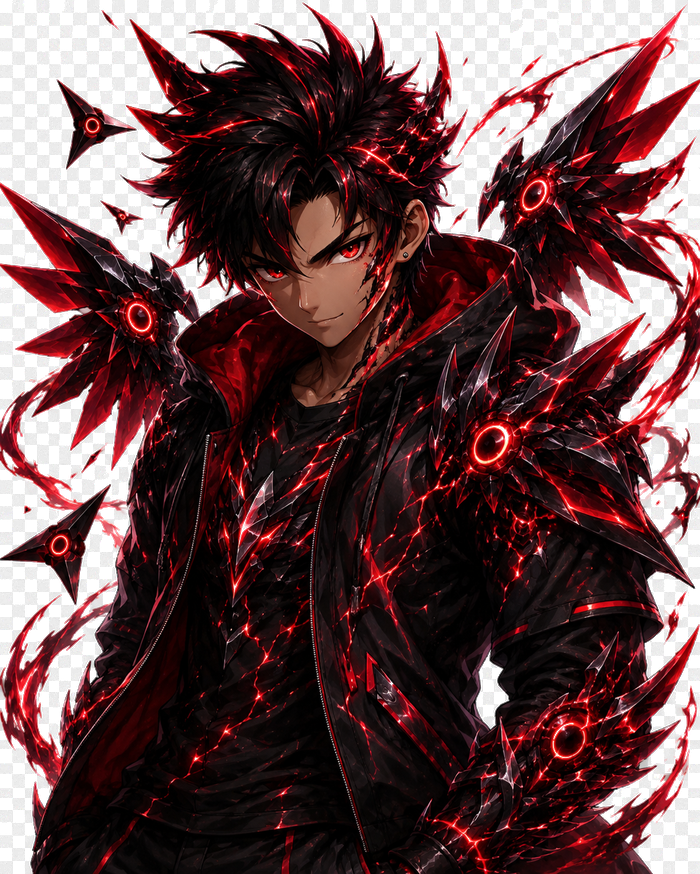
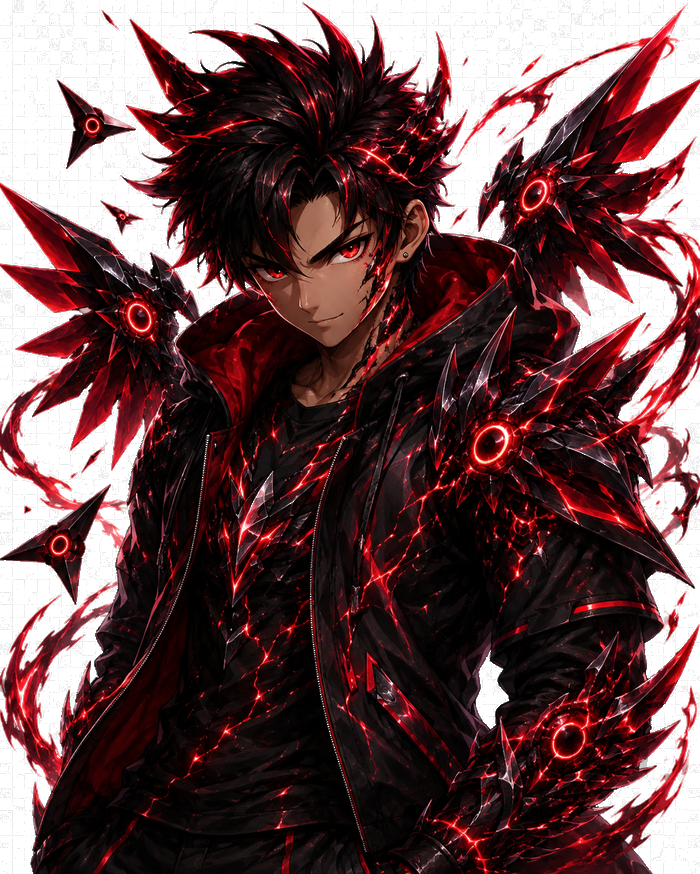
Add files via upload

diff --git a/www/index.html b/www/index.html
@@ -613,6 +613,7 @@ body{
 .program-card-link .title{font-size:15px;font-weight:700;}
 .program-card-link .sub{font-size:12px;color:var(--text-dim);margin-top:2px;}
 .program-card-link .sub2{font-size:11px;font-weight:600;margin-top:3px;}
+.program-card-link .sub3{font-size:11px;font-weight:600;margin-top:4px;color:var(--success);}
 .program-card-link .arrow{margin-left:auto;color:var(--text-faint);flex-shrink:0;}
 .program-card-link.mode-cindy .program-card-icon{color:var(--pull);background:rgba(61,111,224,.14);}
 .program-card-link.mode-cindy .sub2{color:var(--pull);}
@@ -1019,28 +1020,15 @@ textarea.note-input::placeholder{color:var(--text-faint);}
     <div class="home-content">
       <div class="section-label" style="margin-top:14px;">เลือกโหมด</div>
 
-      <div class="program-card-link mode-cindy" onclick="go('cindy')">
-        <div class="program-card-icon">
-          <svg width="19" height="19" viewBox="0 0 24 24" fill="none" stroke="currentColor" stroke-width="2"><circle cx="12" cy="12" r="8.5"/><circle cx="12" cy="12" r="5"/><circle cx="12" cy="12" r="1.6" fill="currentColor" stroke="none"/></svg>
-        </div>
-        <div>
-          <div class="title">Cindy (Classic)<span id="programCindyStartBadge" class="proto-active-tag" style="display:none;">เริ่มตรงนี้</span><span id="programCindyTodayBadge" class="program-today-badge" style="display:none;">วันนี้ตามแผน</span></div>
-          <div class="sub">AMRAP 20 นาที Pull-up · Push-up · Squat</div>
-          <div class="sub2" id="programCindyStat"></div>
-        </div>
-        <div class="arrow">
-          <svg width="16" height="16" viewBox="0 0 24 24" fill="none" stroke="currentColor" stroke-width="2.4"><path d="M9 6l6 6-6 6"/></svg>
-        </div>
-      </div>
-
       <div class="program-card-link mode-custom" onclick="go('customlist')">
         <div class="program-card-icon">
           <svg width="19" height="19" viewBox="0 0 24 24" fill="none" stroke="currentColor" stroke-width="2"><path d="M6.5 6.5l11 11M4 4l3 3M20 20l-3-3M2.5 9.5l3-3 3 3-3 3zM15.5 22.5l3-3 3 3-3 3zM18.5 2.5l3 3-3 3-3-3zM5.5 15.5l3 3-3 3-3-3z"/></svg>
         </div>
         <div>
           <div class="title">Custom Workouts<span id="programCustomTodayBadge" class="program-today-badge" style="display:none;">วันนี้ตามแผน</span></div>
-          <div class="sub">สร้างสูตรของคุณเอง ตั้งตารางประจำสัปดาห์</div>
+          <div class="sub">สร้างสูตรของคุณเอง ตั้งตารางประจำสัปดาห์ — เล่นได้บ่อยเท่าที่ต้องการ</div>
           <div class="sub2" id="programCustomStat"></div>
+          <div class="sub3" id="programCustomNudge" style="display:none;">อยากได้ระบบเล่นประจำ? ไปสร้าง Custom Workout →</div>
         </div>
         <div class="arrow">
           <svg width="16" height="16" viewBox="0 0 24 24" fill="none" stroke="currentColor" stroke-width="2.4"><path d="M9 6l6 6-6 6"/></svg>
@@ -1053,8 +1041,22 @@ textarea.note-input::placeholder{color:var(--text-faint);}
         </div>
         <div>
           <div class="title">Cardio<span id="programCardioTodayBadge" class="program-today-badge" style="display:none;">วันนี้ตามแผน</span></div>
-          <div class="sub">HIIT, Circuit, Tabata พร้อมเล่นทันที</div>
+          <div class="sub">HIIT, Circuit, Tabata พร้อมเล่นทันที — เสริมวันไหนแรงเหลือ</div>
           <div class="sub2" id="programCardioStat"></div>
+        </div>
+        <div class="arrow">
+          <svg width="16" height="16" viewBox="0 0 24 24" fill="none" stroke="currentColor" stroke-width="2.4"><path d="M9 6l6 6-6 6"/></svg>
+        </div>
+      </div>
+
+      <div class="program-card-link mode-cindy" onclick="go('cindy')">
+        <div class="program-card-icon">
+          <svg width="19" height="19" viewBox="0 0 24 24" fill="none" stroke="currentColor" stroke-width="2"><circle cx="12" cy="12" r="8.5"/><circle cx="12" cy="12" r="5"/><circle cx="12" cy="12" r="1.6" fill="currentColor" stroke="none"/></svg>
+        </div>
+        <div>
+          <div class="title">Cindy (Classic)<span id="programCindyStartBadge" class="proto-active-tag" style="display:none;">ลองเล่นเลย (ไม่ต้องตั้งค่า)</span><span id="programCindyTodayBadge" class="program-today-badge" style="display:none;">วันนี้ตามแผน</span></div>
+          <div class="sub">โหมดพิเศษ — หนักกว่า ท้าทายกว่า (AMRAP 20 นาที Pull-up · Push-up · Squat)</div>
+          <div class="sub2" id="programCindyStat"></div>
         </div>
         <div class="arrow">
           <svg width="16" height="16" viewBox="0 0 24 24" fill="none" stroke="currentColor" stroke-width="2.4"><path d="M9 6l6 6-6 6"/></svg>
@@ -1086,7 +1088,7 @@ textarea.note-input::placeholder{color:var(--text-faint);}
       </button>
     </div>
     <div class="home-content">
-      <div class="hero-card" style="margin-top:8px;">
+      <div class="hero-card" style="margin-top:22px;">
         <div id="activeProtocolName" style="font-size:11px;letter-spacing:2px;color:var(--text-faint);text-transform:uppercase;margin-bottom:2px;">Cindy (Classic)</div>
         <div id="heroEyebrow" class="hero-eyebrow">20 MIN AMRAP</div>
         <div id="heroTitle" class="hero-title">5 PULL-UP · 10 PUSH-UP · 15 SQUAT</div>

diff --git a/www/app.js b/www/app.js
@@ -587,20 +587,31 @@ function renderBossCard() {
 }
 
 /* ---- elemental damage breakdown ----
- * Same weekly damage total as above, just split by move so it reads like
- * three damage types instead of one lump sum. Custom Workout volume can't
- * be split by move (arbitrary exercises), so it's shown as a 4th "OTHER"
- * bucket only when it's actually nonzero this week. */
+ * Same weekly damage total as above, split into 5 buckets so the chart
+ * reflects each mode's actual role: PULL/PUSH/SQUAT come from Cindy
+ * (special, played rarely but heavy), CUSTOM is Custom Workout volume
+ * (the main damage source since it's played most often), and CARDIO is
+ * the smaller optional top-up. Custom Workout sessions and Cardio sessions
+ * both live in KEY_CUSTOM_SESSIONS and are told apart the same way
+ * renderProgramHubCards() does it: by workoutId matching a CARDIO_PRESETS
+ * id. CUSTOM and CARDIO rows are only shown when actually nonzero this week. */
 function currentBossDamageBreakdown() {
   const startTs = weekStart(Date.now()).getTime();
   const cindyThisWeek = loadSessions().filter(s => s.finished >= startTs);
   const pull = cindyThisWeek.reduce((sum, s) => sum + (s.total ? s.total.pull : 0), 0);
   const push = cindyThisWeek.reduce((sum, s) => sum + (s.total ? s.total.push : 0), 0);
   const squat = cindyThisWeek.reduce((sum, s) => sum + (s.total ? s.total.squat : 0), 0);
-  const other = loadCustomWorkoutSessions()
-    .filter(s => s.completedAt >= startTs)
+
+  const cardioIds = new Set(CARDIO_PRESETS.map(p => p.id));
+  const customSessionsThisWeek = loadCustomWorkoutSessions().filter(s => s.completedAt >= startTs);
+  const custom = customSessionsThisWeek
+    .filter(s => !cardioIds.has(s.workoutId))
     .reduce((sum, s) => sum + totalVolumeOfCustomSession(s), 0);
-  return { pull, push, squat, other };
+  const cardio = customSessionsThisWeek
+    .filter(s => cardioIds.has(s.workoutId))
+    .reduce((sum, s) => sum + totalVolumeOfCustomSession(s), 0);
+
+  return { pull, push, squat, custom, cardio };
 }
 function renderBossDmgBreakdown() {
   const wrap = document.getElementById('bossDmgBreakdown');
@@ -611,7 +622,8 @@ function renderBossDmgBreakdown() {
     { label: 'PUSH', val: dmg.push, color: 'var(--push)' },
     { label: 'SQUAT', val: dmg.squat, color: 'var(--squat)' }
   ];
-  if (dmg.other > 0) rows.push({ label: 'OTHER', val: dmg.other, color: 'var(--text-faint)' });
+  if (dmg.custom > 0) rows.push({ label: 'CUSTOM', val: dmg.custom, color: 'var(--success)' });
+  if (dmg.cardio > 0) rows.push({ label: 'CARDIO', val: dmg.cardio, color: 'var(--danger)' });
   const maxVal = Math.max(1, ...rows.map(r => r.val));
   wrap.innerHTML = rows.map(r => {
     const pct = Math.round((r.val / maxVal) * 100);
@@ -1548,12 +1560,15 @@ function renderHomeCustomShortcut() {
 
 /**
  * Fills in the small live-stat line under each of the 3 Program hub cards
- * (Cindy / Custom Workouts / Cardio) and shows a "เริ่มตรงนี้" nudge on the
- * Cindy card for a brand-new player who hasn't finished any session of any
- * kind yet. Cardio sessions live in the same KEY_CUSTOM_SESSIONS array as
- * Custom Workout sessions (they share the player), so they're told apart
- * here purely by workoutId matching a CARDIO_PRESETS id — nothing new is
- * stored to distinguish them.
+ * (Custom Workouts / Cardio / Cindy — in that order, since Custom is the
+ * main gameplay loop, Cardio is the optional daily top-up, and Cindy is
+ * the special/boss mode played rarely). For a brand-new player who hasn't
+ * finished any session of any kind yet, shows a "ลองเล่นเลย (ไม่ต้องตั้งค่า)"
+ * quick-sample badge on the Cindy card plus a nudge on the Custom card
+ * pointing them toward building their main routine there. Cardio sessions
+ * live in the same KEY_CUSTOM_SESSIONS array as Custom Workout sessions
+ * (they share the player), so they're told apart here purely by workoutId
+ * matching a CARDIO_PRESETS id — nothing new is stored to distinguish them.
  */
 function renderProgramHubCards() {
   const cindyEl = document.getElementById('programCindyStat');
@@ -1595,9 +1610,13 @@ function renderProgramHubCards() {
     cardioEl.textContent = 'เล่นแล้ว ' + cardioSessions.length + ' ครั้ง · ล่าสุด ' + fmtDate(last);
   }
 
+  const customNudge = document.getElementById('programCustomNudge');
+  const brandNew = cindySessions.length === 0 && allCustomSessions.length === 0;
   if (startBadge) {
-    const brandNew = cindySessions.length === 0 && allCustomSessions.length === 0;
     startBadge.style.display = brandNew ? 'inline-block' : 'none';
+  }
+  if (customNudge) {
+    customNudge.style.display = brandNew ? 'block' : 'none';
   }
 
   const cindyTodayBadge = document.getElementById('programCindyTodayBadge');
